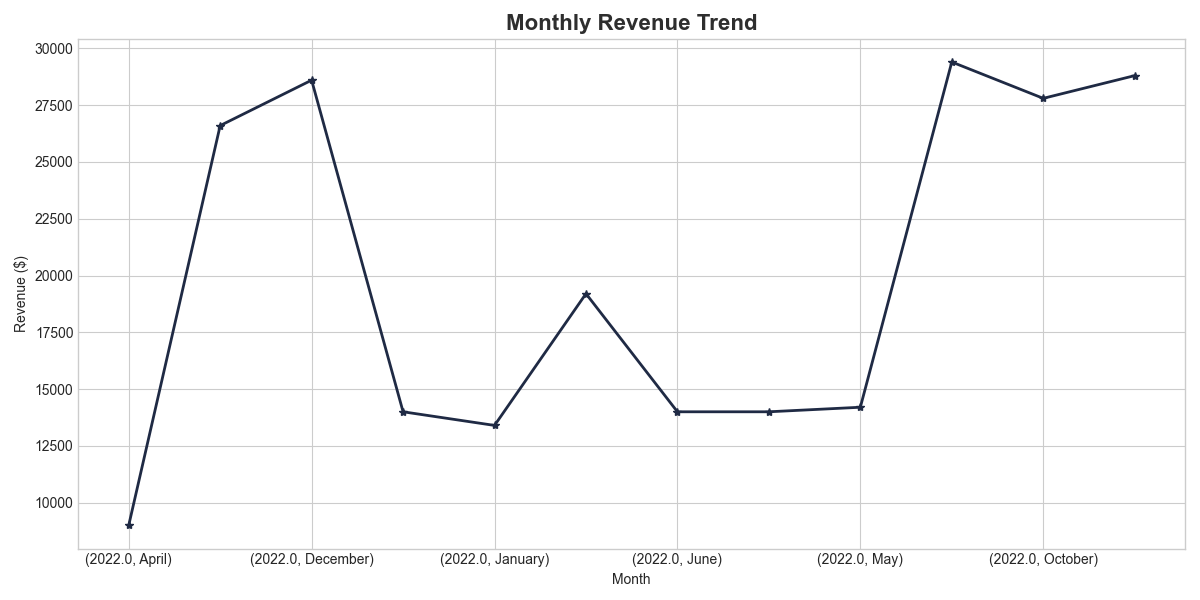
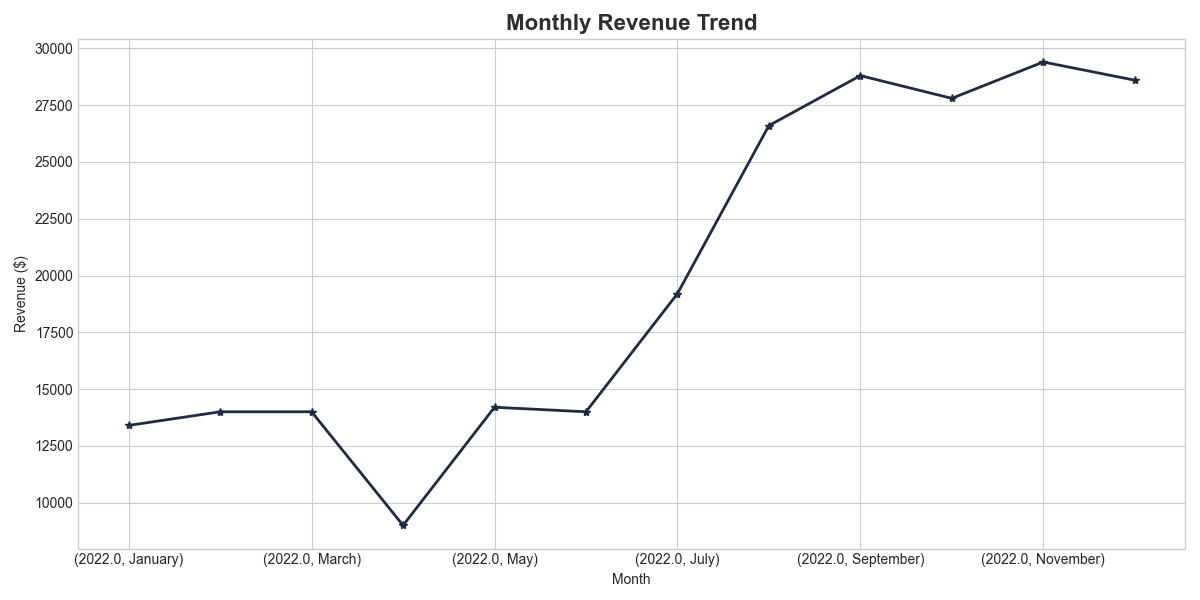
Update data cleaning and month sorting

diff --git a/flow/clean.py b/flow/clean.py
@@ -13,6 +13,14 @@ def clean_data(salesdata):
     
     salesdata['Year'] = salesdata['Date'].dt.year
     salesdata['Month'] = salesdata['Date'].dt.month_name()
+    month_order = [
+    'January', 'February', 'March', 'April',
+    'May', 'June', 'July', 'August',
+    'September', 'October', 'November', 'December']
+    salesdata['Month'] = pd.Categorical(
+    salesdata['Month'],
+    categories=month_order,
+    ordered=True)
     salesdata['Day'] = salesdata['Date'].dt.day
     salesdata['DayOfWeek'] = salesdata['Date'].dt.day_name()
     salesdata['Quarter'] = salesdata['Date'].dt.quarter

diff --git a/flow/analyze.py b/flow/analyze.py
@@ -20,7 +20,7 @@ def rank_best_managers(salesdata, top_n):
 
 #Calculate monthly revenue
 def monthly_revenue(salesdata):
-    return salesdata.groupby(['Year', 'Month'])['Revenue'].sum()
+    return salesdata.groupby(['Year', 'Month'])['Revenue'].sum().sort_index()
 
 #Calculate daily revenue, .groupby() is simply to group output by specified terms, in this case day of the week and revenue
 def daily_revenue(salesdata):
